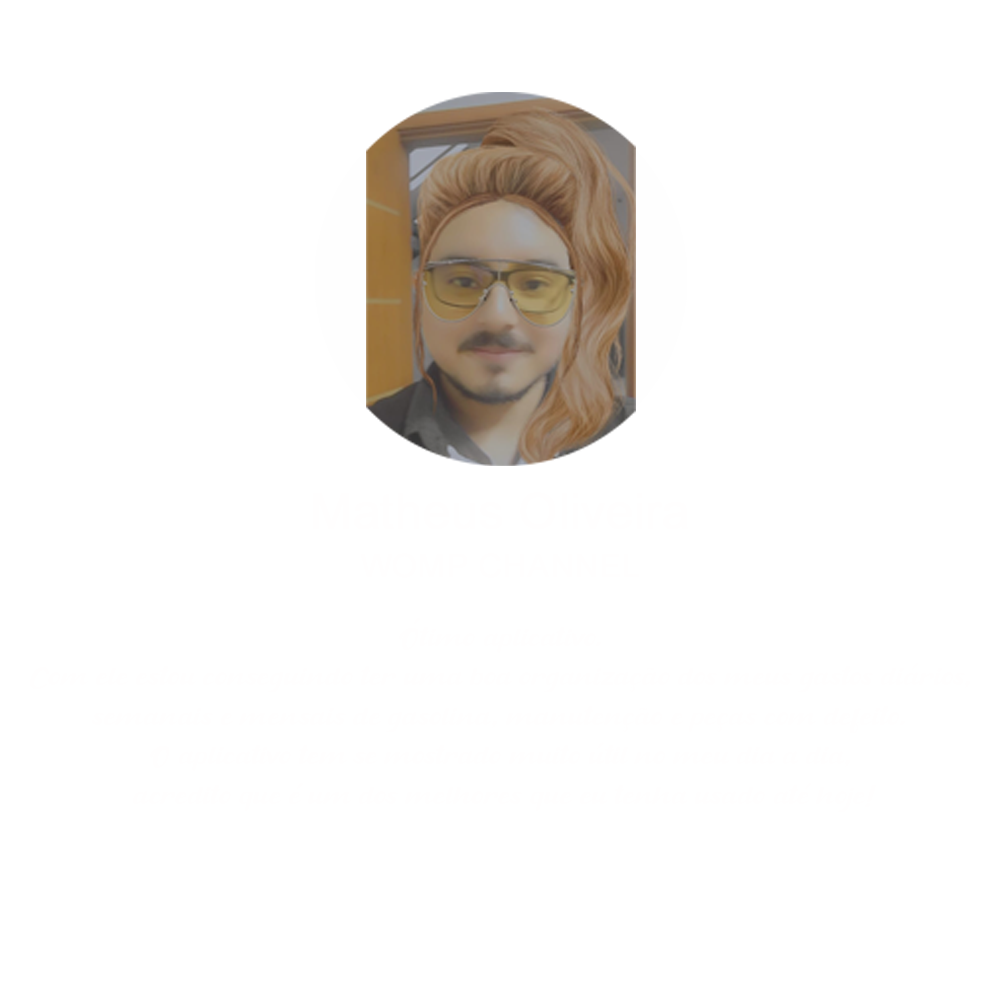
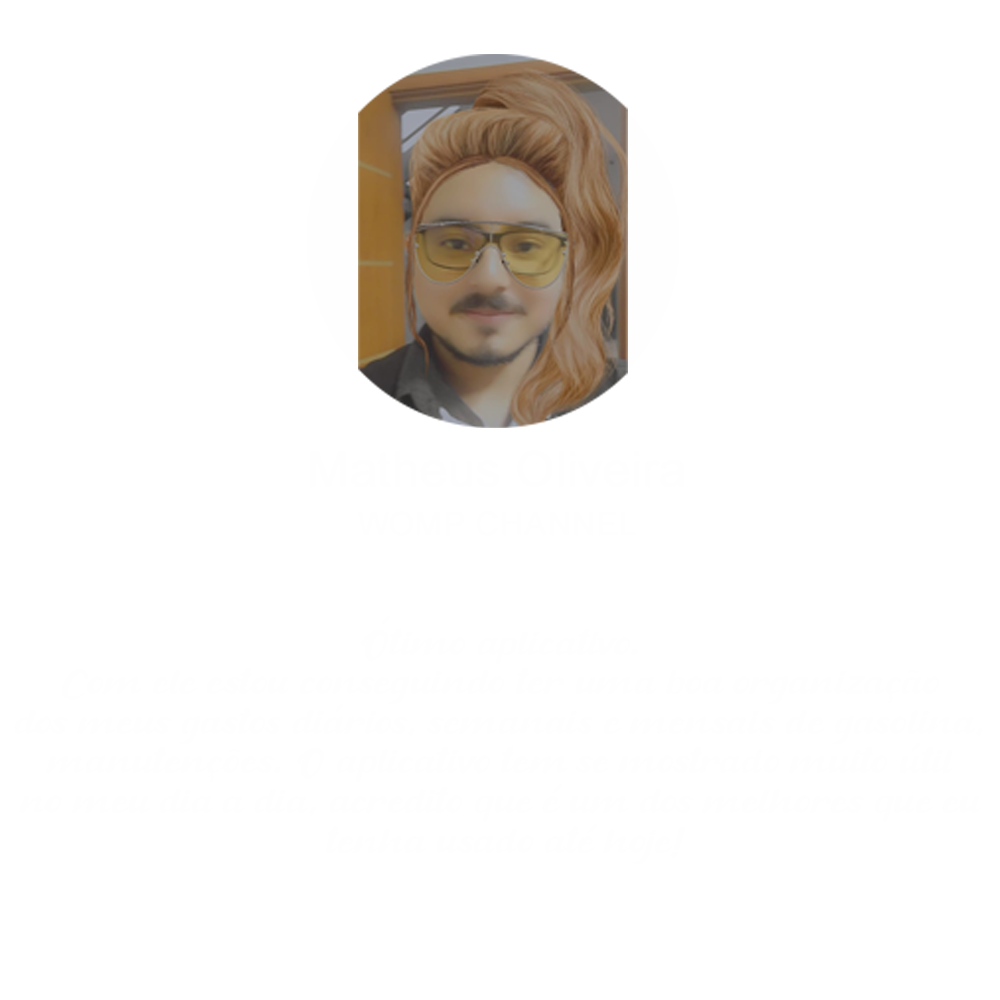
feedback parceiros, correção de imagens

Changed region(s): [[0.341, 0.031, 0.651, 0.465]]

diff --git a/index.html b/index.html
@@ -33,16 +33,37 @@
                             <a class="nav-link active" aria-current="page" href="index.html">Home</a>
                         </li>
                         <li class="nav-item">
-                            <a class="nav-link" href="#">Frota Web</a>
-                        </li>
-                        <li class="nav-item">
                             <a class="nav-link" href="#">App Frota</a>
                         </li>
                         <li class="nav-item">
                             <a class="nav-link" href="sobre.html">Quem somos</a>
                         </li>
                         <li class="nav-item">
-                            <a class="nav-link" href="#">Suporte</a>
+                            <a class="nav-link" id="link_modal" href=" <li class=" nav-item ">
+                            <a class="nav-link " href="# ">Frota Web</a>
+                        </li>
+                        <li class="nav-item ">
+                            <a class="nav-link " href=" <li class="nav-item">
+                                <a class="nav-link" href="#">Frota Web</a>
+                        </li>
+                        <li class="nav-item">
+                            <a class="nav-link" href="#">App Frota</a>
+                        </li>">App Frota</a>
+                        </li>">Suporte</a>
+                        <!-- The Modal -->
+                        <div id="myModal" class="modal">
+
+                            <!-- Modal content -->
+                            <div class="modal-content">
+                                <span class="close">&times;</span>
+                                <p><i class="fas fa-envelope me-3"></i> suporte@nbntelecom.com.br </p>
+                                <p><i class="fas fa-phone me-3"></i> + 55 92 98808-8488</p>
+                                <p><i class="fas fa-phone me-3"></i> + 55 92 981339951</p>
+                                <p><i class="fab fa-whatsapp me-3"></i> + 55 92 98808-8488</p>
+
+                            </div>
+
+                        </div>
                         </li>
                         <li class="nav-link">
                             <a href="" class="btn btn-nav">Solicitar demonstração</a>
@@ -212,7 +233,7 @@
                     <img class="d-block" src="./assets/images/feedback_matheus.png">
                 </div>
                 <div class="carousel-item">
-                    <img class="d-block" src="./assets/images/feedback_matheus.png" alt="Second slide">
+                    <img class="d-block" src="./assets/images/feedback_darlene.png" alt="Second slide">
                 </div>
                 <div class="carousel-item">
                     <img class="d-block" src="./assets/images/feedback_matheus.png" alt="Third slide">
@@ -246,8 +267,8 @@
             <div class="col-md-2">
                 <img src="./assets/images/matrix.png" alt="matrix" width="200px" height="auto">
             </div>
-            <div class="col-md-3">
-                <img src="./assets/images/womp channel.png" alt="womp channel " width="500px" height="auto">
+            <div class="col-md-2">
+                <img src="./assets/images/womp channel.png" alt="womp channel " width="200px" height="auto">
             </div>
         </div>
     </div>
@@ -257,13 +278,6 @@
         <a href="" class="btn btn-contact">Solicitar demonstração</a>
     </div>
 
-
-
-    <div class="container-fluid maps-empresa">
-        <iframe src="https://www.google.com/maps/embed?pb=!1m14!1m8!1m3!1d31874.635321114336!2d-59.9487973!3d-3.0057561!3m2!1i1024!2i768!4f13.1!3m3!1m2!1s0x926c19989164e58f%3A0x64ca6b93e5cd34a7!2sNBN%20Telecom%20-%20Operacional!5e0!3m2!1spt-BR!2sbr!4v1641308520712!5m2!1spt-BR!2sbr"
-            style="border:0;" allowfullscreen="" loading="lazy">
-        </iframe>
-    </div>
 
     <!-- Footer -->
     <footer class="text-center text-lg-start text-muted">
@@ -282,7 +296,7 @@
                     <div class="col-md-3 col-lg-4 col-xl-3 mx-auto mb-4">
                         <!-- Content -->
                         <h6 class="text-uppercase fw-bold mb-4">
-                            <i class="fas fa-globe">NBN Telecom</i>
+                            <i class="fas fa-globe">NBN App</i>
                         </h6>
                         <p>
                             <span>Frota online</span> é um sistema de controle de frota de veículos muito fácil de usar e de baixíssimo custo operacional.
@@ -294,7 +308,7 @@
                     <div class="col-md-2 col-lg-2 col-xl-2 mx-auto mb-4">
                         <!-- Links -->
                         <h6 class="text-uppercase fw-bold mb-4">
-                            Produtos
+                            Gestão
                         </h6>
                         <p>
                             <a href="#!" class="text-reset">Abastencimento</a>
@@ -317,12 +331,12 @@
                         <h6 class="text-uppercase fw-bold mb-4">
                             Contatos
                         </h6>
-                        <p><i class="fas fa-home me-3"></i> Manaus, Cidade de Deus, Av margarita</p>
+                        <p><i class="fas fa-home me-3"></i> Manaus, Cidade de Deus, Av margarita nº5712</p>
                         <p>
                             <i class="fas fa-envelope me-3"></i> suporte@nbntelecom.com.br
                         </p>
-                        <p><i class="fas fa-phone me-3"></i> + 55 92 99608-9533</p>
-                        <p><i class="fas fa-phone me-3"></i> + 55 92 99314-3333</p>
+                        <p><i class="fas fa-phone me-3"></i> + 55 92 98808-8488</p>
+                        <p><i class="fas fa-phone me-3"></i> + 55 92 981339951</p>
                     </div>
                     <!-- Grid column -->
                 </div>

diff --git a/assets/css/style.css b/assets/css/style.css
@@ -49,6 +49,10 @@ header nav .container .collapse ul li .nav-link {
     margin-top: 0.3em;
 }
 
+#link_modal {
+    font-size: 20;
+}
+
 header nav .container .collapse ul li a:hover {
     color: #00b2b8;
     transition: 2s;
@@ -138,7 +142,7 @@ form h1 {
 /* CONTEUDO SECUNDARIO */
 
 .conteudo-secundario {
-    margin-top: 3em;
+    margin-top: 1em;
 }
 
 .conteudo-secundario .row {
@@ -186,11 +190,15 @@ form h1 {
 /* APELO */
 
 .apelo {
-    background-image: url("/assets/images/pessoa.jpeg");
+    background-image: url("/assets/images/hodometro.png");
+    /*min-height: 500px;  Create the parallax scrolling effect */
+    background-attachment: fixed;
+    background-position: center;
     background-repeat: no-repeat;
     background-size: cover;
     text-align: center;
-    margin-bottom: 5rem;
+    margin-top: 4rem;
+    margin-bottom: 7rem;
     padding-top: 5rem;
     padding-bottom: 4rem;
 }
@@ -326,8 +334,13 @@ section footer .container a span {
 }
 
 .quote-container {
+    background-image: url("/assets/images/img_preto_branco.png");
+    /*min-height: 500px;  Create the parallax scrolling effect */
+    background-attachment: fixed;
+    background-position: center;
+    background-repeat: no-repeat;
+    background-size: cover;
     margin-top: 5rem;
-    background-color: rgba(0, 178, 184, 0.1);
     padding: 50px 0;
 }
 
@@ -351,15 +364,10 @@ section footer .container a span {
 }
 
 .container-carousel .carousel {
-    margin: 2rem auto;
+    margin: 4rem auto;
     width: 60%;
     height: auto;
     display: flex;
-}
-
-.container-carousel .carousel .carousel-control-prev-icon .sr-only {
-    color: #00b2b8;
-    background-color: red;
 }
 
 .container-carousel img {
@@ -528,18 +536,6 @@ footer span {
     font-weight: bold;
 }
 
-.maps-empresa iframe {
-    padding-top: 15px;
-    width: 100%;
-    height: 300px;
-    margin-top: 4rem;
-    margin-bottom: 6rem;
-}
-
-.maps-empresa h1 {
-    color: white;
-}
-
 
 /* ************************ QUE SOMOS ************************ */
 
@@ -599,6 +595,81 @@ footer span {
     width: 800px;
     margin-top: 2rem;
 }
+
+
+/* INICIO MODAL */
+
+header nav .container .collapse ul li .modal {
+    display: none;
+    /* Hidden by default */
+    position: fixed;
+    /* Stay in place */
+    z-index: 1;
+    /* Sit on top */
+    left: 0;
+    top: 0;
+    width: 100%;
+    /* Full width */
+    height: 100%;
+    /* Full height */
+    overflow: auto;
+    /* Enable scroll if needed */
+    background-color: rgb(0, 0, 0);
+    /* Fallback color */
+    background-color: rgba(0, 0, 0, 0.4);
+    /* Black w/ opacity */
+}
+
+
+/* Modal Content/Box */
+
+header nav .container .collapse ul li .modal-content {
+    background-color: rgba(0, 178, 184, 0.1);
+    backdrop-filter: blur(10px);
+    -webkit-backdrop-filter: blur(10px);
+    margin: 10% auto;
+    padding: 30px;
+    border: 1px solid #00b2b8;
+    width: 40%;
+    color: white;
+    /* Could be more or less, depending on screen size */
+}
+
+header nav .container .collapse ul li .modal-content .fas,
+.fab {
+    color: #00b2b8;
+    font-size: 25px;
+}
+
+
+/* The Close Button */
+
+.close {
+    padding-left: 10px;
+    color: #00b2b8;
+    margin-bottom: -2rem;
+    margin-left: 95%;
+    font-size: 40px;
+    font-weight: bold;
+    cursor: pointer;
+    width: 50px;
+    height: auto;
+}
+
+.close:hover {
+    color: White;
+    transition: 0.5s;
+}
+
+header nav .container .collapse ul li .close:hover,
+header nav .container .collapse ul li .close:focus {
+    color: black;
+    text-decoration: none;
+    cursor: pointer;
+}
+
+
+/* Fim DO MODAL */
 
 
 /*Dispositivos extra small (telefones em modo retrato, com menos de 576px)*/

diff --git a/sobre.html b/sobre.html
@@ -21,8 +21,8 @@
                     <img src="./assets/images/Logo.png" alt="250px" height="50px">
                 </a>
                 <button class="navbar-toggler" type="button" data-bs-toggle="collapse" data-bs-target="#navbarSupportedContent" aria-controls="navbarSupportedContent" aria-expanded="false" aria-label="Toggle navigation">
-    <span class="navbar-toggler-icon"></span>
-  </button>
+                <span class="navbar-toggler-icon"></span>
+                 </button>
                 <div class="collapse navbar-collapse" id="navbarSupportedContent">
                     <ul class="navbar-nav ms-auto">
                         <li class="nav-item">
@@ -38,7 +38,21 @@
                             <a class="nav-link" href="sobre.html">Quem somos</a>
                         </li>
                         <li class="nav-item">
-                            <a class="nav-link" href="#">Suporte</a>
+                            <a class="nav-link" id="link_modal" href="#">Suporte</a>
+                            <!-- The Modal -->
+                            <div id="myModal" class="modal">
+
+                                <!-- Modal content -->
+                                <div class="modal-content">
+                                    <span class="close">&times;</span>
+                                    <p><i class="fas fa-envelope me-3"></i> suporte@nbntelecom.com.br </p>
+                                    <p><i class="fas fa-phone me-3"></i> + 55 92 98808-8488</p>
+                                    <p><i class="fas fa-phone me-3"></i> + 55 92 981339951</p>
+                                    <p><i class="fab fa-whatsapp me-3"></i> + 55 92 98808-8488</p>
+
+                                </div>
+
+                            </div>
                         </li>
                         <li class="nav-link">
                             <a href="" class="btn btn-nav">Solicitar demonstração</a>
@@ -47,7 +61,6 @@
                 </div>
             </div>
         </nav>
-
     </header>
 
 
@@ -166,8 +179,8 @@
 
             <script src="./assets/node_modules/bootstrap/dist/js/bootstrap.min.js"></script>
             <script src="./assets/node_modules/jquery/dist/jquery.min.js"></script>
+            <script src="./assets/js/main.js"></script>
             <script src="https://stackpath.bootstrapcdn.com/bootstrap/5.0.0-alpha1/js/bootstrap.bundle.min.js"></script>
-            <script src="./assets/js/animation.js"></script>
 
 </body>
 

diff --git a/assets/js/main.js b/assets/js/main.js
@@ -99,3 +99,35 @@ class ValidaFormulario {
 }
 
 const valida = new ValidaFormulario();
+
+/*MODAL JAVASCRIPT */
+
+
+function myModal() {
+    // Obtenha o modal
+    var modal = document.getElementById("myModal");
+
+
+    var btn = document.getElementById("link_modal");
+
+    // Obtenha o elemento <span> que fecha o modal
+    var span = document.getElementsByClassName("close")[0];
+
+    // Quando o usuário clica no botão, abre o modal
+    btn.onclick = function() {
+        modal.style.display = "block";
+    }
+
+    // Quando o usuário clicar em <span> (x), feche o modal
+    span.onclick = function() {
+        modal.style.display = "none";
+    }
+
+    // Quando o usuário clicar em qualquer lugar fora do modal, feche-o
+    window.onclick = function(event) {
+        if (event.target == modal) {
+            modal.style.display = "none";
+        }
+    }
+}
+myModal();
